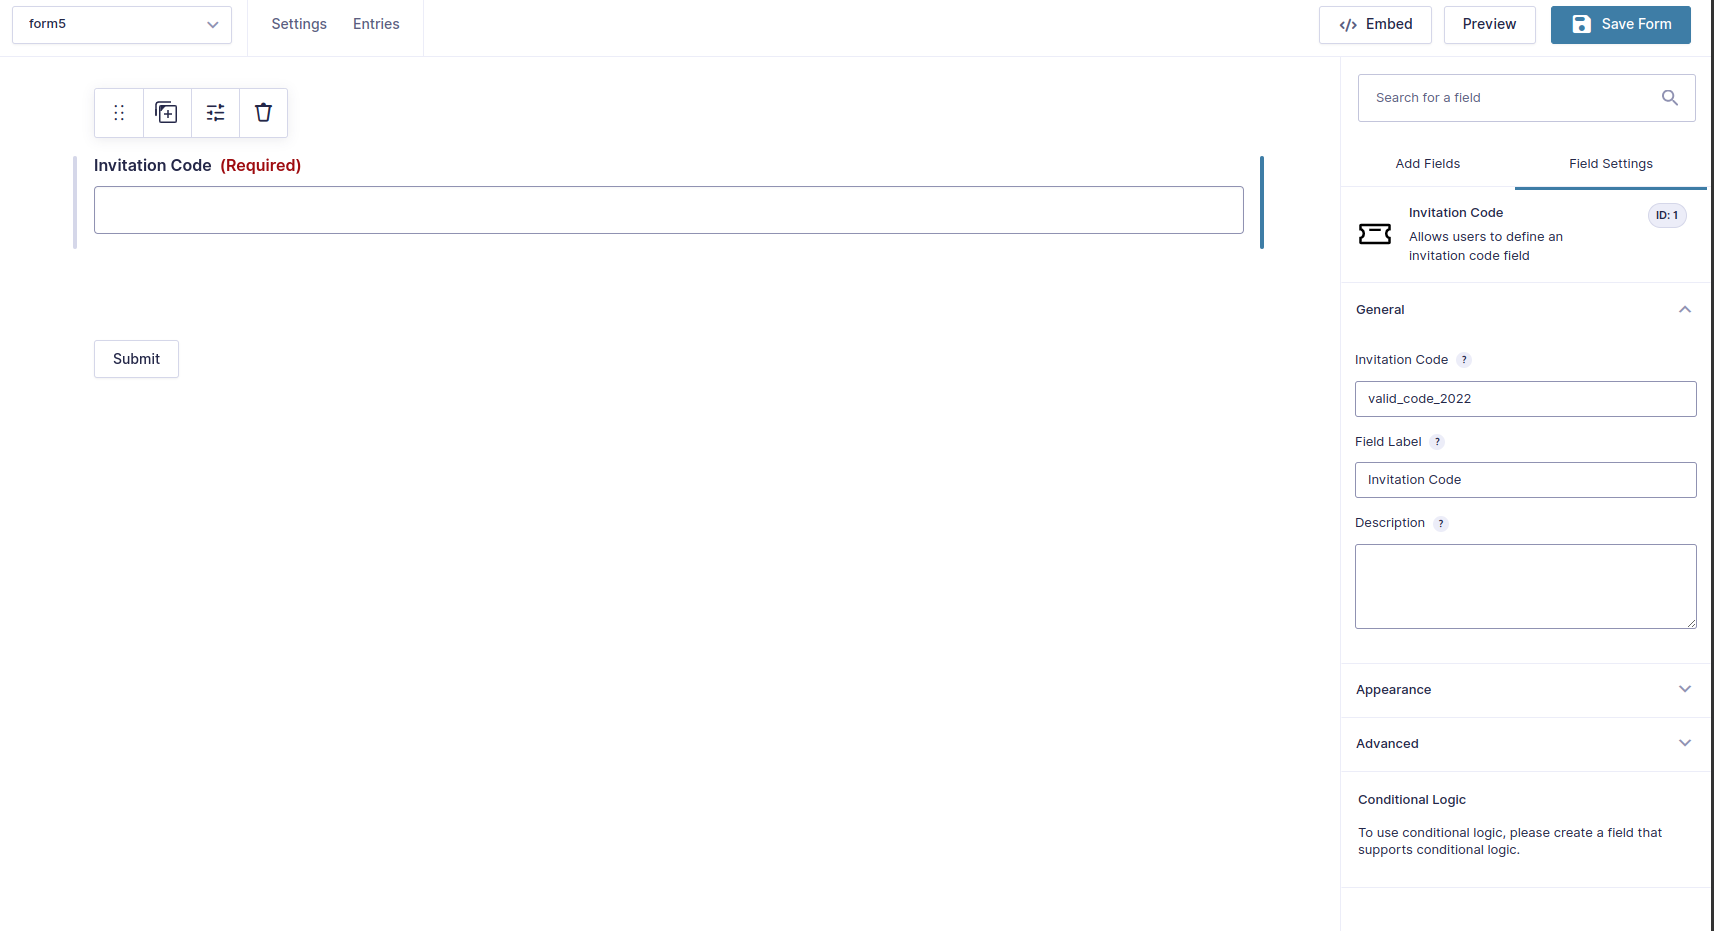
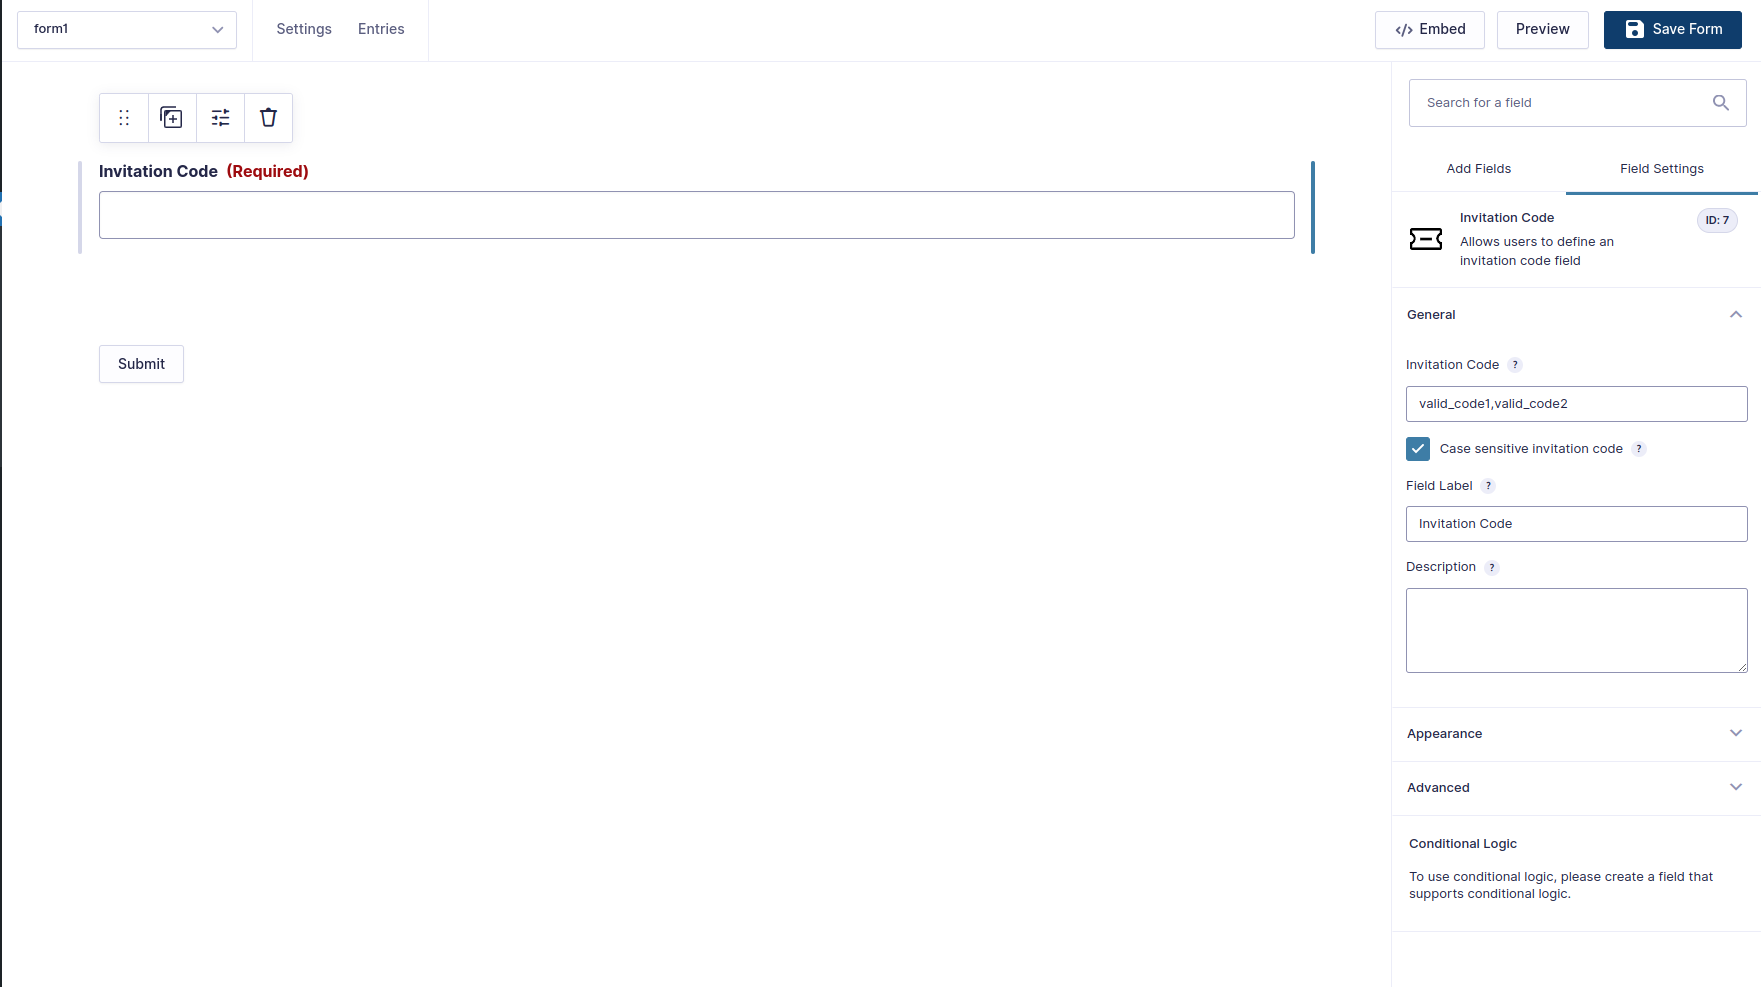
released version 1.1

diff --git a/includes/class-gf-field-invitation-code.php b/includes/class-gf-field-invitation-code.php
@@ -74,7 +74,7 @@ class GF_Field_Invitation_Code extends GF_Field_Text
 		   'css_class_setting',
 		   'description_setting',
 		   'error_message_setting',
-		   'invitation_code_setting',
+		   'invitation_code_settings',
 		   'label_placement_setting',
 		   'label_setting',
 		   'prepopulate_field_setting',
@@ -85,7 +85,16 @@ class GF_Field_Invitation_Code extends GF_Field_Text
 
 	public function validate($value, $form)
 	{
-		if ($value !== $this->invitationCode)
+		// if invitationCodeCaseSensitive then, don't do anything
+		if ($this->invitationCodeCaseSensitive) {
+			$invitation_codes = explode(',',$this->invitationCode);
+		} else {
+			// if not invitationCodeCaseSensitive convert everything to lowercase
+			$invitation_codes = array_map('strtolower',explode(',',$this->invitationCode));
+			$value = strtolower($value);
+		}
+		
+		if (is_array($invitation_codes) && !in_array($value ,$invitation_codes))
 		{
 			$this->failed_validation = true;
 			if (!empty($this->errorMessage))
@@ -116,26 +125,54 @@ class GF_Field_Invitation_Code extends GF_Field_Text
 	 */
 	public function get_form_editor_inline_script_on_page_render()
 	{
-		// set the default field label
-		$script = sprintf(
-		 "function SetDefaultValues_invitation_code(field) {
-			field.label = '%s';}",
-		  $this->get_form_editor_field_title()) . PHP_EOL;
-		// initialize the fields custom settings
-		$script .= "jQuery(document).bind('gform_load_field_settings',
-		 function (event, field, form) {" .
-		   "var invitationCode = field.invitationCode == undefined ? '' :
-		   field.invitationCode;" .
-		   "jQuery('#field_invitation_code').val(invitationCode);" .
-		  "jQuery('#field_invitation_code').on('input propertychange',
-		   function(){SetFieldProperty('invitationCode', this.value);	});" .
-		  "jQuery('#field_invitation_code').val(
-			field.invitationCode == undefined || 
-			field.invitationCode === false ? '' : field.invitationCode);" .
-		  "});" . PHP_EOL;
-		return $script;
-	}
+		$field_label = $this->get_form_editor_field_title();
+		?>
+		<script type="text/javascript">
+			// set the default field label
+			function SetDefaultValues_invitation_code(field) {
+				field.label = "<?php echo $field_label; ?> ";
+			}
+			
+			// initialize the fields General setting settings
+			jQuery(document).bind('gform_load_field_settings',function (event, field, form) {
+				// Change the value of the textfield to be from the JS var invitationCode
+				jQuery('#field_invitation_code').val(field.invitationCode == undefined || field.invitationCode === false ? '' : field.invitationCode);
+				// If the value of the text field is changed, change the JS var invitationCode accordingly 
+				jQuery('#field_invitation_code').on('input propertychange', function(){
+					SetFieldProperty('invitationCode', this.value);
+				});
+				
+				// Change the value of checkbox based on the value of JS var invitationCodeCaseSensitive
+				jQuery("#invitation_code_case").prop("checked", field.invitationCodeCaseSensitive ? true : false);
 
+			});
+		</script> 
+	<?php
+	}
+		/**
+	 * Returns the scripts to be included with the form init scripts on the front-end.
+	 *
+	 * @param array $form The Form Object currently being processed.
+	 *
+	 * @return string
+	 */
+	public function get_form_inline_script_on_page_render( $form ) {
+		/**
+		 * Get the value of the http parameter we want to populate our custom invitation code field with
+		 * to do that we need to get the value of the field Parameter Name from Advanced tab of the invitation code field
+		 * Apparently the value can be obtained by using $this->inputName.
+		 */
+		if ($this->allowsPrepopulate){
+			$http_parameter = $this->inputName;
+			$field_id = "#input_{$form['id']}_{$this->id}";
+			// For some weird reason the values of invitation code field are not populated automatically, thus this hack.
+			return "jQuery(document).ready(function(){ 
+				jQuery(\"{$field_id}\").val(new URLSearchParams(window.location.search).get('$http_parameter'));
+				jQuery(\"{$field_id}\").attr('readonly',true);
+			});";	
+		}
+	}
 }
+
 
 GF_Fields::register(new GF_Field_Invitation_Code());

diff --git a/class-gf-invitation-code.php b/class-gf-invitation-code.php
@@ -80,16 +80,19 @@ class GFInvitationCode extends GFAddOn
 		if ($position == 0)
 		{
 ?>
-<li class="invitation_code_setting field_setting">
+<li class="invitation_code_settings field_setting">
 	<label for="field_invitation_code" class="section_label">
-		<?php esc_html_e(
-			'Invitation Code',
-			self::GF_INVITATION_CODES_TEXTDOMAIN
-			);
-?>
+		<?php esc_html_e('Invitation Code', self::GF_INVITATION_CODES_TEXTDOMAIN);?>
 		<?php gform_tooltip('field_invitation_code'); ?>
 	</label>
 	<input type="text" id="field_invitation_code" />
+</li>
+	<li class="invitation_code_settings field_setting">
+	<input type="checkbox" id="invitation_code_case" onclick="SetFieldProperty('invitationCodeCaseSensitive', this.checked);"/>
+	<label for="invitation_code_case" class="section_label">
+			<?php esc_html_e('Case sensitive invitation code', self::GF_INVITATION_CODES_TEXTDOMAIN);?>
+			<?php gform_tooltip('invitation_code_case'); ?>
+	</label>
 </li>
 <?php
 		}
@@ -97,18 +100,14 @@ class GFInvitationCode extends GFAddOn
 	public function tooltips($tooltips)
 	{
 		$invitationcodes_tooltips = [
-		 'field_invitation_code' =>
-		 '<h6>' .
-		 esc_html__(
-		  'Invitation Code',
-		  self::GF_INVITATION_CODES_TEXTDOMAIN
-		  ) .
-		  '</h6>' .
-		  esc_html__(
-		  'Enter the Invitation Code you want to be used for the current form',
-		   self::GF_INVITATION_CODES_TEXTDOMAIN
-		  )
-		  ];
+		 'field_invitation_code' => 
+		 '<h6>' . esc_html__('Invitation Code', self::GF_INVITATION_CODES_TEXTDOMAIN) .'</h6>' 
+		 .esc_html__('Enter the Invitation Code(s) you want to be used for the current form. You can either enter singel code or a comma-separated list of invitation codes. Max 200 codes',self::GF_INVITATION_CODES_TEXTDOMAIN)
+		,
+		'invitation_code_case' => 
+		'<h6>' . esc_html__('Invitation code sensitivy', self::GF_INVITATION_CODES_TEXTDOMAIN) .'</h6>' 
+		.esc_html__('Specify if you want to make the field case sensitive. By default, it\'s case insensitive ',self::GF_INVITATION_CODES_TEXTDOMAIN)
+		]; 
 		return array_merge($tooltips, $invitationcodes_tooltips);
 	}
 }

diff --git a/class-gf-invitation-code-bootstrap.php b/class-gf-invitation-code-bootstrap.php
@@ -8,11 +8,11 @@ if (!defined('ABSPATH'))
  * Plugin Name: Invitation Codes: Gravityforms Add-on
  * Plugin URI: https://github.com/peshmerge/invitation-codes-gravityforms-add-on
  * Description: A simple Gravity Form add-on to enable WordPress users to specify invitation codes on Gravity forms. 
- * Version: 1.0
+ * Version: 1.1
  * Author: Peshmerge Morad 
  * Author URI: https://peshmerge.io
  */
-const GF_INVITATION_CODE_VERSION = '1.0';
+const GF_INVITATION_CODE_VERSION = '1.1';
 add_action('gform_loaded', ['GF_Invitation_Code_Bootstrap', 'load'], 5);
 /**
  * Class GF_Invitation_Code_Bootstrap
